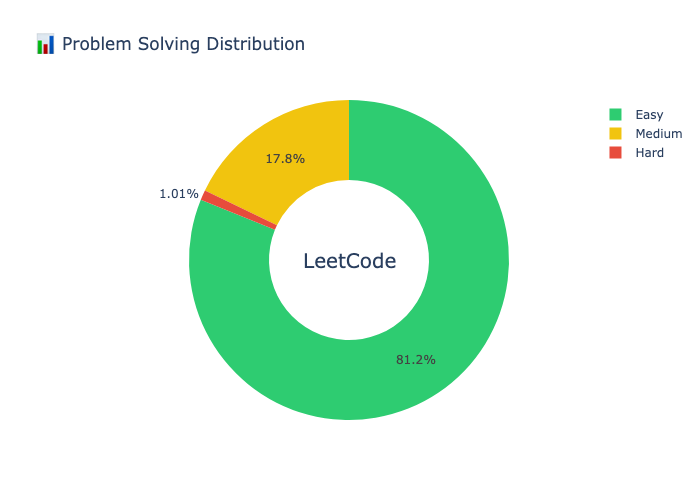
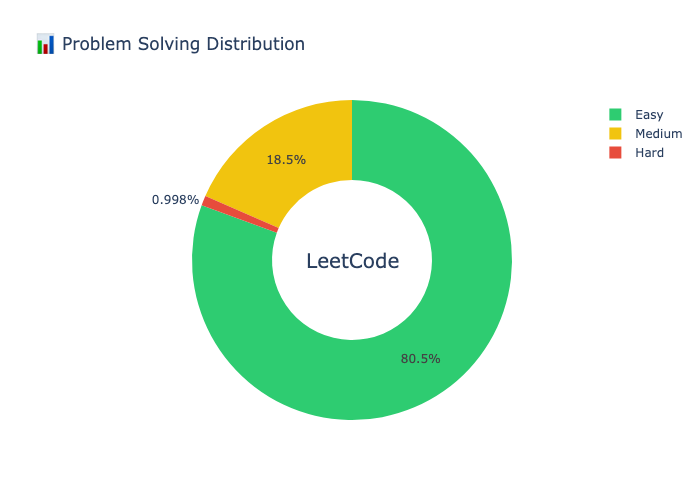
Updated code

diff --git a/README.md b/README.md
@@ -11,18 +11,18 @@ Welcome to my repository, where I document my journey of solving coding challeng
 
 ## 🚀 Contest Performance  
 - **Contest Rating**: N/A  
-- **Global Ranking**: 251568 / N/A  
+- **Global Ranking**: 249627 / N/A  
 - **Contests Attended**: 1  
 - **Top Rank Achieved**: N/A%  
 
 ---
 
 ## 💡 Problem-Solving Stats  
-- **Acceptance Rate**: 37.42%  
+- **Acceptance Rate**: 37.48%  
 |----------------|---------------------|---------------------|----------------|  
-| 🟢 Easy        | 323 / 901          | 37.42%              |
-| 🟡 Medium      | 71 / 1920         | 37.42%             |
-| 🔴 Hard        | 4 / 870            | 37.42%             |
+| 🟢 Easy        | 323 / 904          | 37.48%              |
+| 🟡 Medium      | 74 / 1923         | 37.48%             |
+| 🔴 Hard        | 4 / 873            | 37.48%             |
 
 ---
 
@@ -71,20 +71,20 @@ Welcome to my repository, where I document my journey of solving coding challeng
 
 ## 🚀 Contest Performance  
 - **Contest Rating**: N/A  
-- **Global Ranking**: 251568 / N/A  
+- **Global Ranking**: 249627 / N/A  
 - **Contests Attended**: 3  
 - **Top Rank Achieved**: N/A%  
 
 ---
 
 ## 💡 Problem-Solving Stats  
-- **Acceptance Rate**: 37.42%  
+- **Acceptance Rate**: 37.48%  
 
 | Difficulty | Solved / Total | Acceptance Rate |
 |------------|----------------|-----------------|
-| 🟢 Easy        | 323 / 901          | 37.42%              |
-| 🟡 Medium      | 71 / 1920         | 37.42%             |
-| 🔴 Hard        | 4 / 870            | 37.42%             |
+| 🟢 Easy        | 323 / 904          | 37.48%              |
+| 🟡 Medium      | 74 / 1923         | 37.48%             |
+| 🔴 Hard        | 4 / 873            | 37.48%             |
 
 --
 
